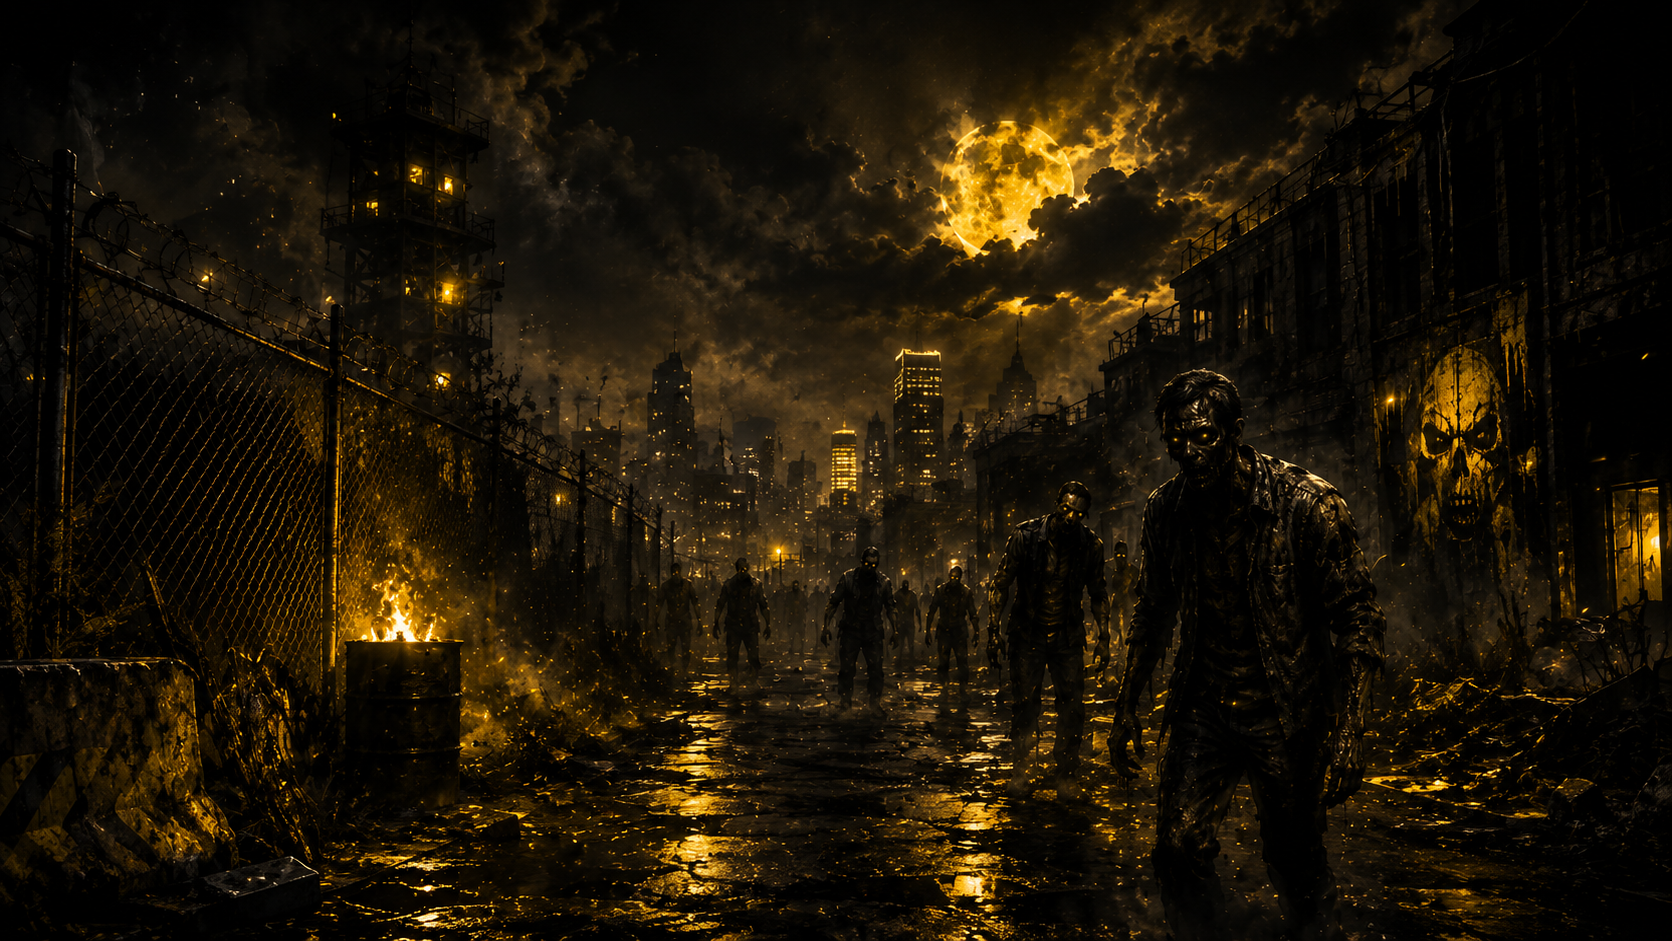
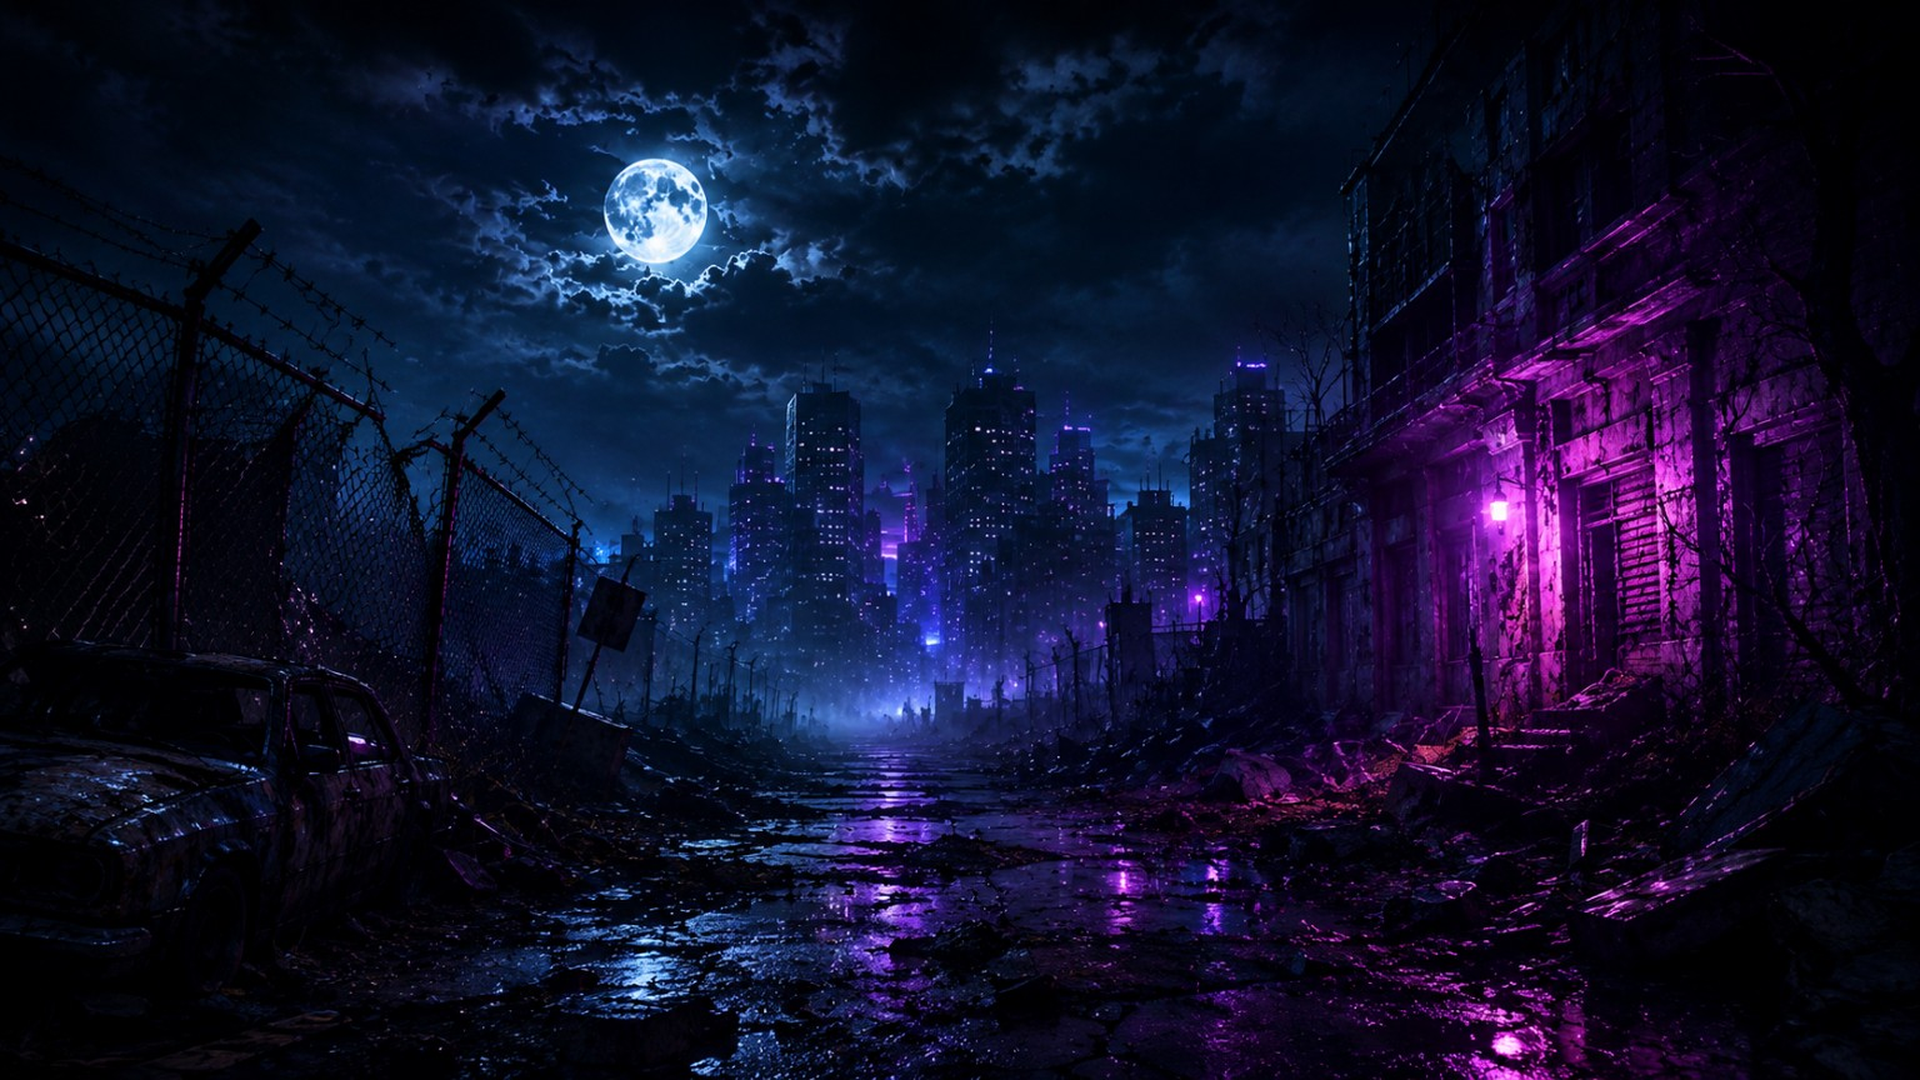
Add files via upload

diff --git a/theme.css b/theme.css
@@ -1,5 +1,72 @@
-:root{--accent:#b40018;--accent2:#ff304f;--panel:rgba(8,10,13,.78);--text:#f2f2f2;--muted:#a8adb5}
+:root{
+  --accent:#5aa9ff;
+  --accent2:#8b6cff;
+  --gold:#d9b86c;
+  --panel:rgba(5,10,20,.72);
+  --panel2:rgba(10,18,34,.82);
+  --text:#f4f7fb;
+  --muted:#aab7c9;
+  --line:rgba(115,170,255,.24);
+}
 *{box-sizing:border-box}
-body{font-family:Arial,Helvetica,sans-serif;color:var(--text)}
-body:before{content:"";position:fixed;inset:0;background:radial-gradient(circle at 50% 35%,rgba(180,0,24,.16),transparent 38%),linear-gradient(180deg,rgba(0,0,0,.15),rgba(0,0,0,.72));pointer-events:none}
-body:after{content:"JAILBREAK AMINE PS4";position:fixed;left:50%;top:50%;transform:translate(-50%,-50%);font-weight:800;letter-spacing:5px;font-size:clamp(24px,4vw,58px);text-align:center;text-shadow:0 0 18px rgba(255,48,79,.3);opacity:.9;pointer-events:none}
+html,body{min-height:100%;margin:0}
+body{
+  color:var(--text)!important;
+  background:#050914 url('background.png') center center/cover fixed no-repeat!important;
+  font-family:"Segoe UI",Arial,Helvetica,sans-serif!important;
+  overflow-x:hidden;
+}
+body:before{
+  content:"";position:fixed;inset:0;z-index:0;pointer-events:none;
+  background:
+    radial-gradient(circle at 50% 42%,rgba(80,145,255,.15),transparent 35%),
+    linear-gradient(180deg,rgba(2,6,14,.18),rgba(2,5,12,.78));
+}
+body:after{
+  content:"";position:fixed;inset:0;z-index:0;pointer-events:none;
+  background:linear-gradient(120deg,transparent 0 42%,rgba(100,170,255,.045) 50%,transparent 58%);
+  mix-blend-mode:screen;
+}
+.container,#wrap,.main-layout,#console,#kernel-options,.btn-container,.autoJb,.mt-2{position:relative;z-index:1}
+.container{min-height:100vh;padding:34px 24px}
+.header-section{text-align:center;margin-bottom:20px}
+.main-title,h1,#state{
+  text-shadow:0 4px 22px rgba(0,0,0,.8),0 0 24px rgba(90,169,255,.18)!important;
+}
+.main-title{
+  margin:0!important;
+  letter-spacing:.08em!important;
+  font-weight:800!important;
+  background:linear-gradient(90deg,#fff,#8fc8ff 45%,#b59cff)!important;
+  background-size:100% 100%!important;
+  -webkit-background-clip:text!important;
+  background-clip:text!important;
+  -webkit-text-fill-color:transparent!important;
+  color:transparent!important;
+  animation:none!important;
+}
+#console{
+  background:linear-gradient(180deg,rgba(2,7,16,.84),rgba(2,5,12,.68))!important;
+  color:#e9f2ff!important;
+  border:1px solid var(--line)!important;
+  border-radius:14px!important;
+  box-shadow:0 18px 50px rgba(0,0,0,.45),inset 0 0 30px rgba(80,140,255,.05)!important;
+  backdrop-filter:blur(8px);
+}
+button{
+  background:linear-gradient(135deg,#183b67,#315ea0)!important;
+  border:1px solid rgba(140,190,255,.35)!important;
+  border-radius:10px!important;
+  box-shadow:0 8px 24px rgba(0,0,0,.35)!important;
+  transition:transform .18s ease,filter .18s ease!important;
+}
+button:hover{filter:brightness(1.16)!important;transform:translateY(-1px)}
+#state{color:#f4f7fb!important}
+#det{color:#b9c8dc!important}
+#cache{color:#91a2b8!important}
+#brand{background:rgba(5,10,20,.7)!important;border-bottom:1px solid var(--line)!important;backdrop-filter:blur(10px)}
+#brand b{color:#f4f7fb!important}
+hr{border-top-color:var(--line)!important}
+input[type=radio]{border-color:#65758c!important;background:#0b1220!important}
+input[type=radio]:checked{background:var(--accent)!important;box-shadow:0 0 12px rgba(90,169,255,.45)}
+@media(max-width:800px){.container{padding:22px 14px}.main-title{font-size:28px}.container #console{font-size:14px}}
